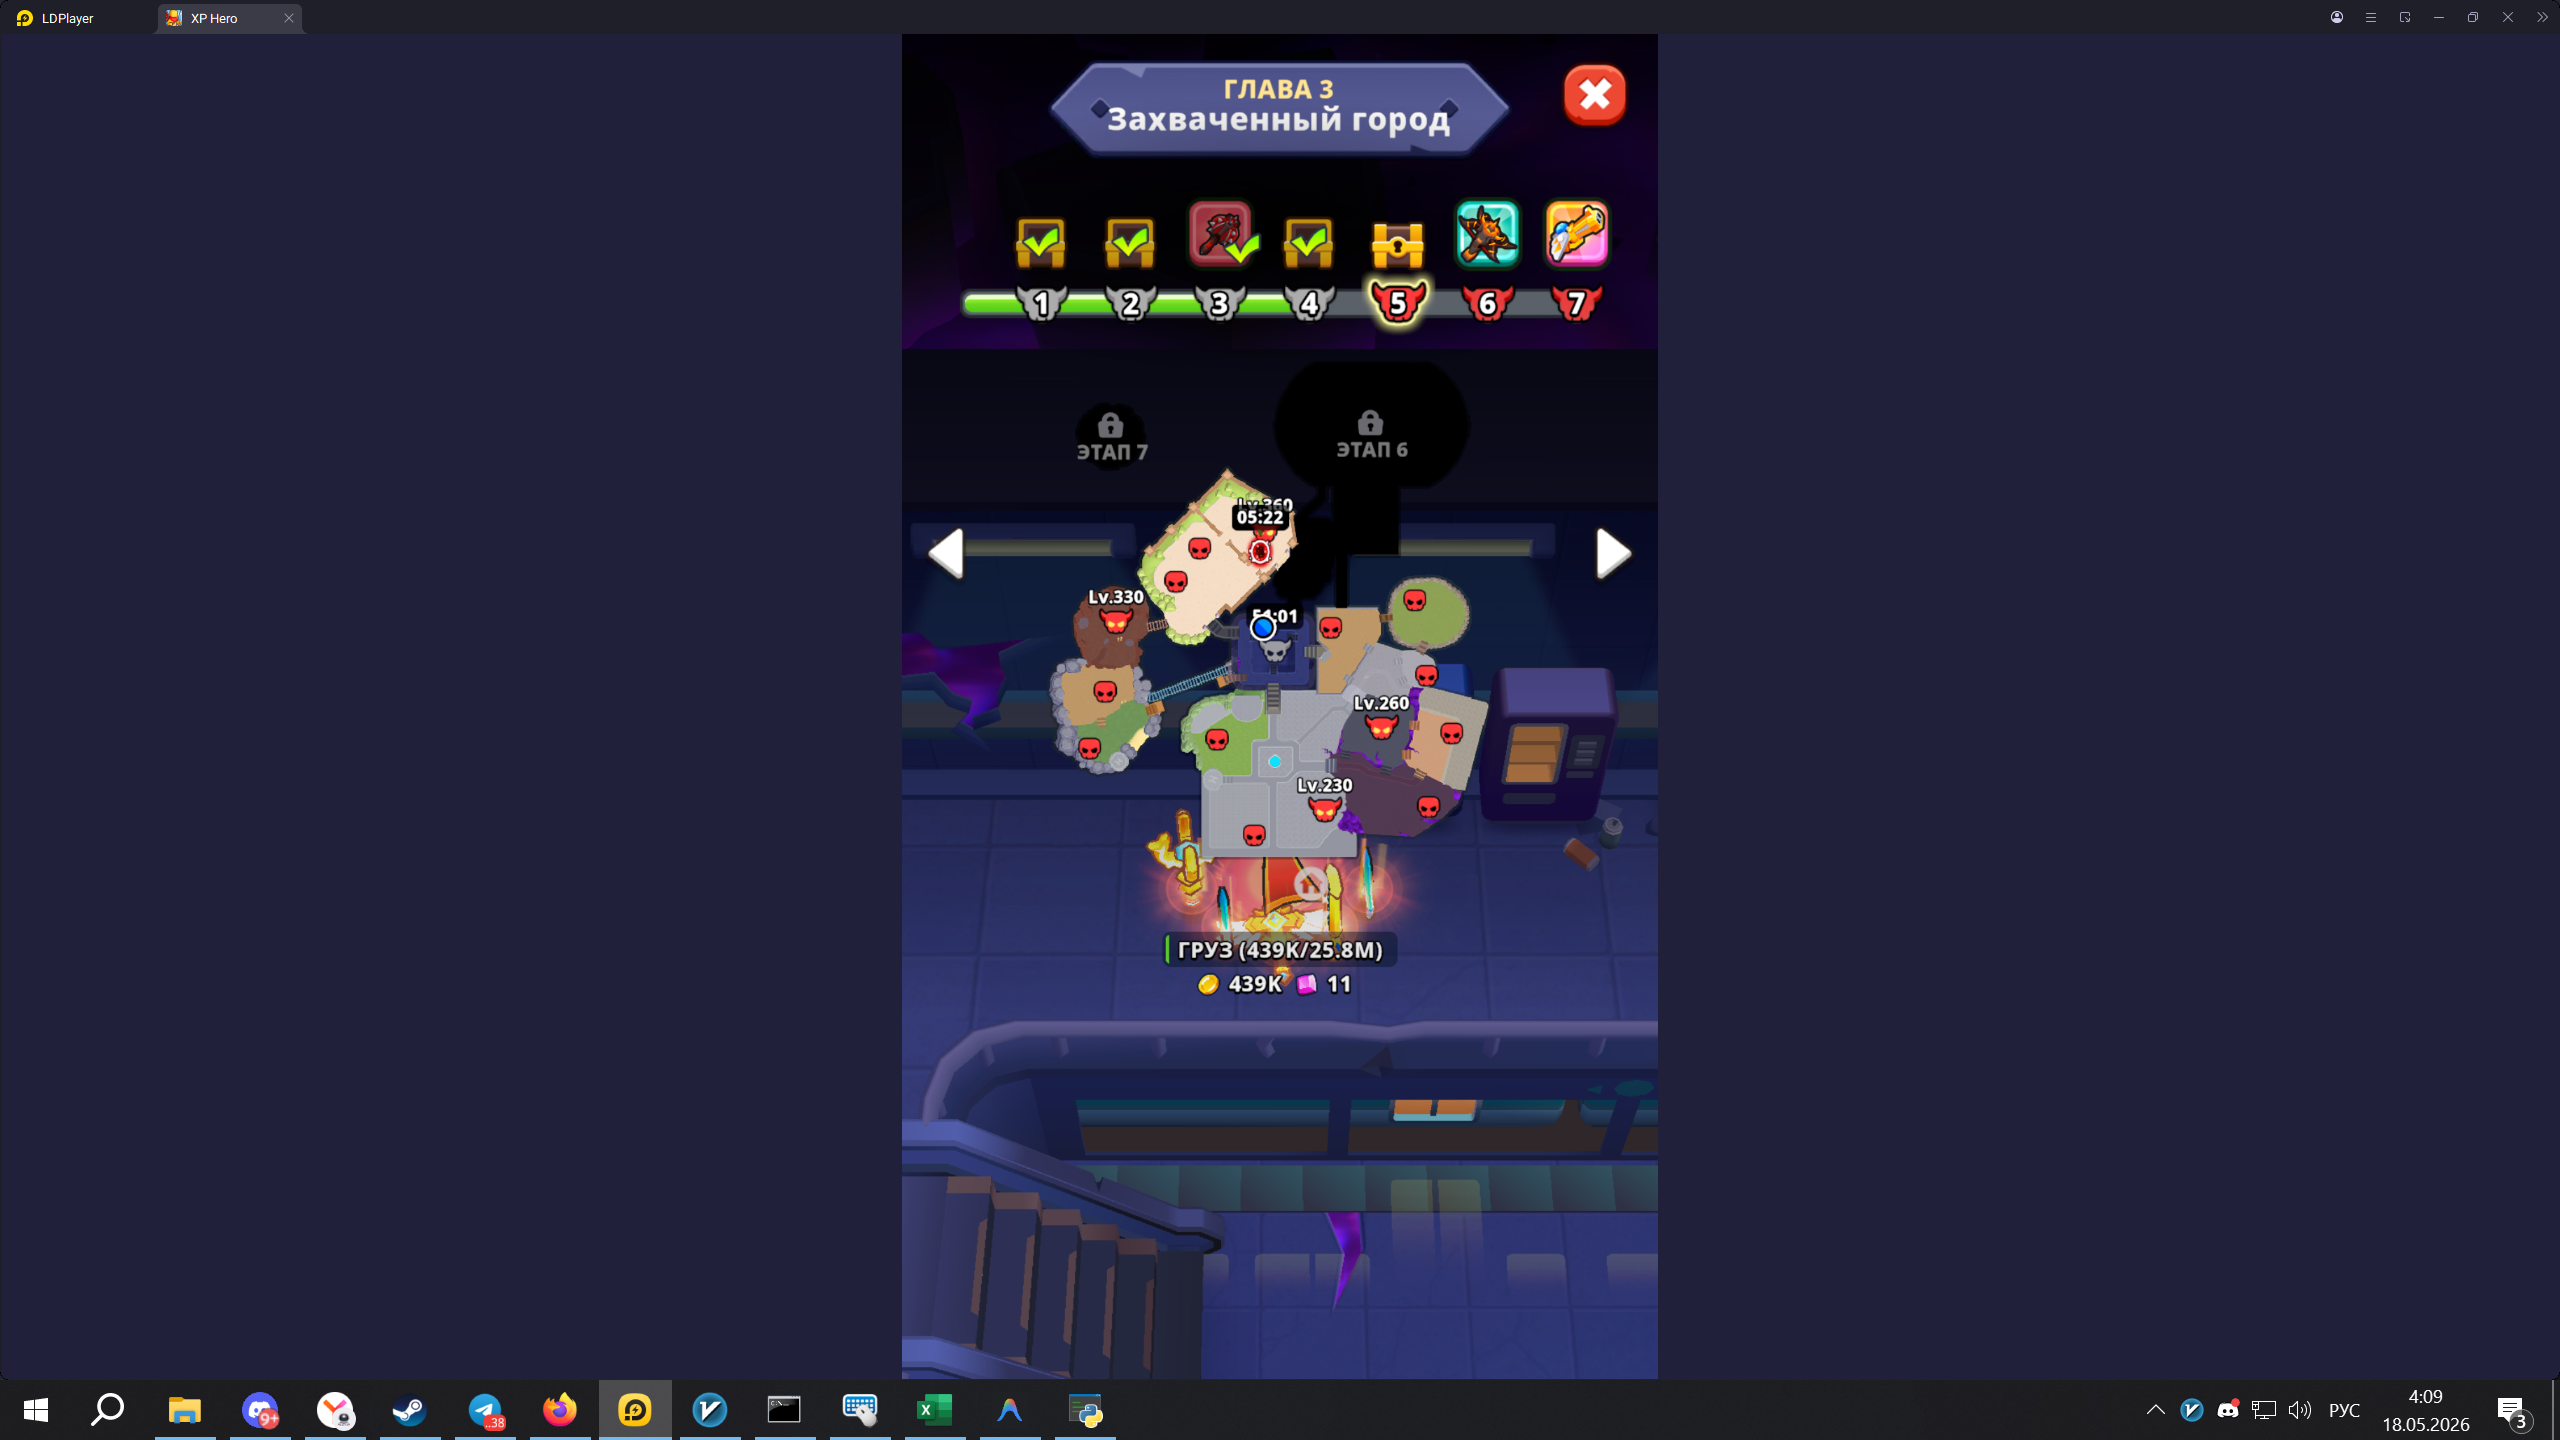
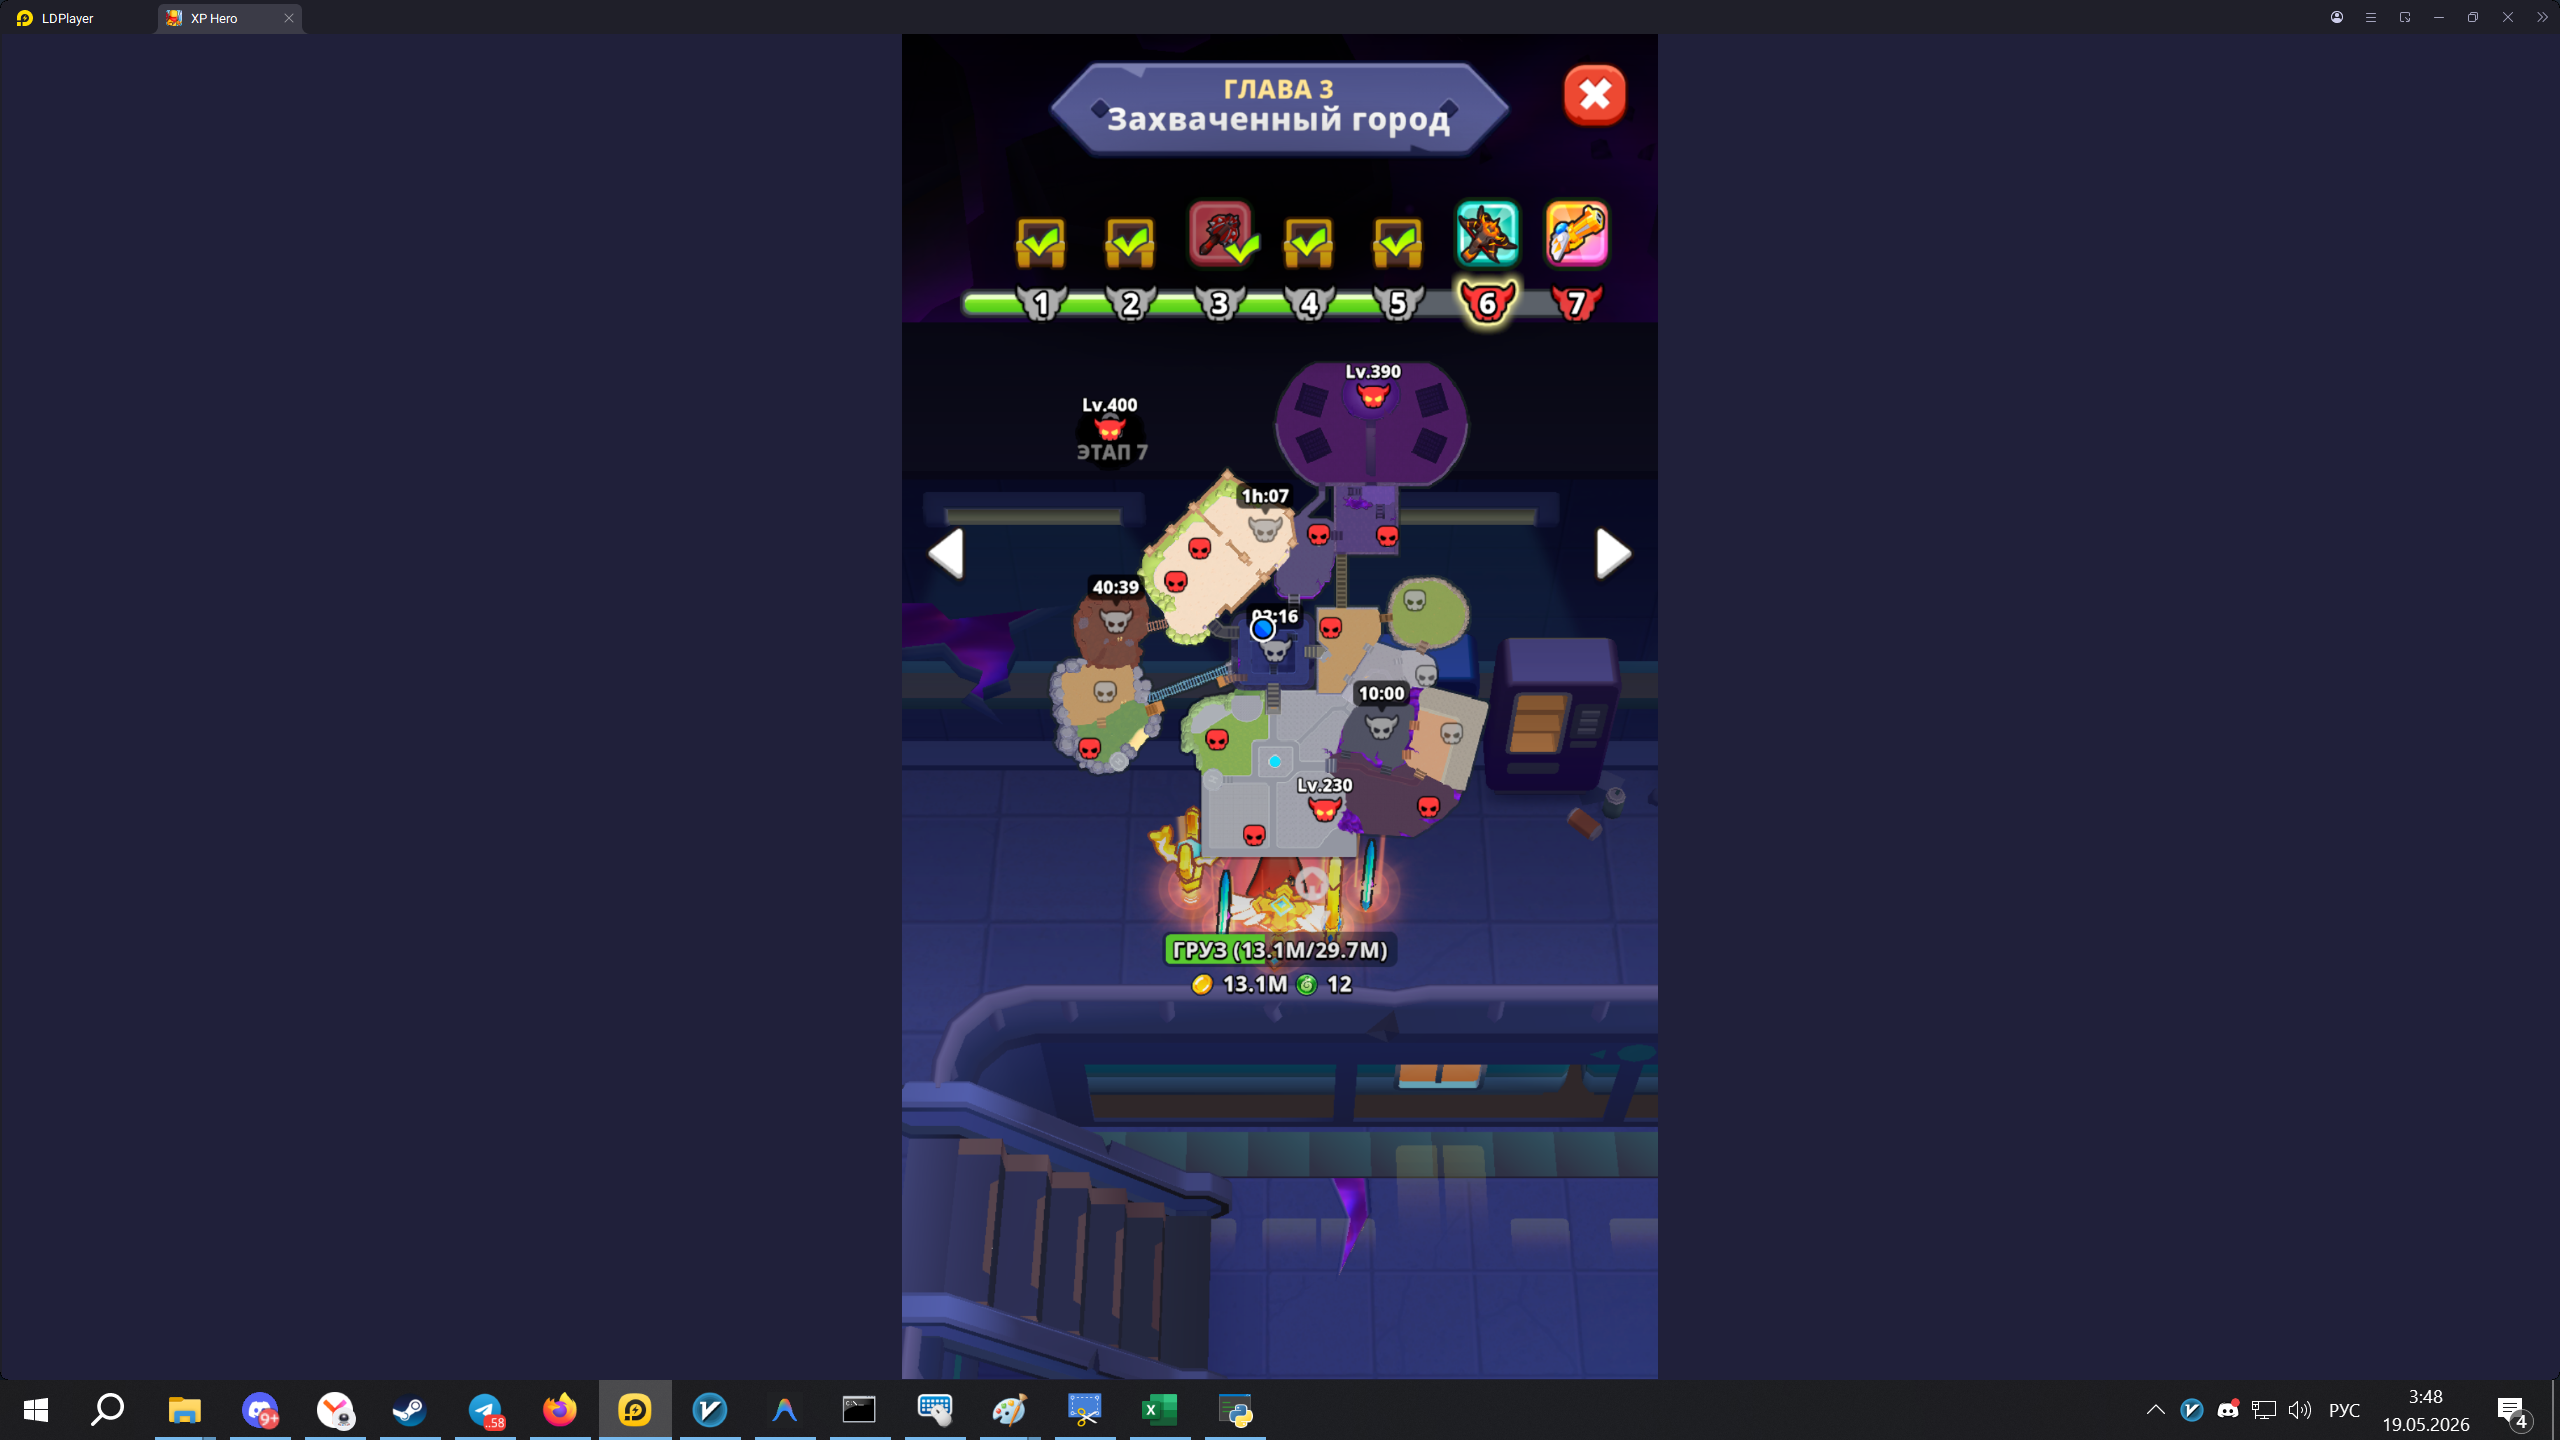
рабочий вполне варик

Changed region(s): [[0.2812, 0.125, 0.6562, 1.0], [0.3438, 0.2188, 0.4062, 0.25], [0.4062, 0.2812, 0.4375, 0.3125]]

diff --git a/src/gui/settings_page.py b/src/gui/settings_page.py
@@ -423,34 +423,61 @@ class TestMoveThread(QThread):
                                 wp_dist = math.sqrt((waypoint[0] - rel_x)**2 + (waypoint[1] - rel_y)**2)
                                 print(f"DEBUG NAV: Waypoint reached. Switching to next waypoint index {path_index} at logical relative {waypoint} (dist: {wp_dist:.2f} px, sharp_turn: {is_sharp_turn}, passed: {has_passed_waypoint})")
 
-                            # Базовый вектор до вейпоинта
-                            dx = waypoint[0] - rel_x
-                            dy = waypoint[1] - rel_y
-
-                            # Применяем "Умное пробегание" (Look-ahead) для промежуточных точек
-                            enable_overrun = False
-                            if enable_overrun and path_index < len(path) - 1:
-                                if path_index > 0:
-                                    prev_wp = path[path_index-1]
+                            # --- Алгоритм "Виртуальная Морковка" (Pure Pursuit) ---
+                            # Дистанция взгляда вперед (в логических пикселях). Чем больше, тем плавнее повороты.
+                            lookahead = 4.0 
+                            
+                            carrot_x = waypoint[0]
+                            carrot_y = waypoint[1]
+                            
+                            # Если мы еще не достигли финальной точки, рассчитываем морковку вдоль пути
+                            if path_index < len(path) - 1:
+                                remaining_lookahead = lookahead
+                                curr_pt = (rel_x, rel_y)
+                                
+                                # Расстояние до ближайшего целевого вейпоинта
+                                dist_to_wp = math.hypot(waypoint[0] - rel_x, waypoint[1] - rel_y)
+                                
+                                if dist_to_wp >= remaining_lookahead:
+                                    # Морковка лежит на отрезке между персонажем и текущим вейпоинтом
+                                    if dist_to_wp > 0.1:
+                                        ux = (waypoint[0] - rel_x) / dist_to_wp
+                                        uy = (waypoint[1] - rel_y) / dist_to_wp
+                                        carrot_x = rel_x + ux * remaining_lookahead
+                                        carrot_y = rel_y + uy * remaining_lookahead
                                 else:
-                                    prev_wp = (rel_x, rel_y)
-                                
-                                seg_dx = waypoint[0] - prev_wp[0]
-                                seg_dy = waypoint[1] - prev_wp[1]
-                                seg_len = math.hypot(seg_dx, seg_dy)
-                                
-                                if seg_len > 0.1:
-                                    # Нормализованный вектор направления текущего коридора
-                                    ux = seg_dx / seg_len
-                                    uy = seg_dy / seg_len
+                                    # Морковка "сворачивает за угол" на следующие сегменты
+                                    remaining_lookahead -= dist_to_wp
+                                    curr_pt = waypoint
                                     
-                                    # Проектируем виртуальную цель на 0.5 пикселя дальше по вектору движения
-                                    overrun_dist = 0.5
-                                    target_x = waypoint[0] + ux * overrun_dist
-                                    target_y = waypoint[1] + uy * overrun_dist
-                                    
-                                    dx = target_x - rel_x
-                                    dy = target_y - rel_y
+                                    # Идем по оставшимся сегментам пути
+                                    for i in range(path_index, len(path) - 1):
+                                        next_pt = path[i+1]
+                                        seg_dx = next_pt[0] - curr_pt[0]
+                                        seg_dy = next_pt[1] - curr_pt[1]
+                                        seg_len = math.hypot(seg_dx, seg_dy)
+                                        
+                                        if remaining_lookahead <= seg_len:
+                                            # Морковка лежит на этом сегменте
+                                            if seg_len > 0.1:
+                                                ux = seg_dx / seg_len
+                                                uy = seg_dy / seg_len
+                                                carrot_x = curr_pt[0] + ux * remaining_lookahead
+                                                carrot_y = curr_pt[1] + uy * remaining_lookahead
+                                            remaining_lookahead = 0
+                                            break
+                                        else:
+                                            # Морковка лежит еще дальше
+                                            remaining_lookahead -= seg_len
+                                            curr_pt = next_pt
+                                            
+                                    # Если мы исчерпали путь, а lookahead остался, морковка — это финальная точка
+                                    if remaining_lookahead > 0:
+                                        carrot_x = path[-1][0]
+                                        carrot_y = path[-1][1]
+                                        
+                            dx = carrot_x - rel_x
+                            dy = carrot_y - rel_y
 
                             angle = math.atan2(dy, dx)
 